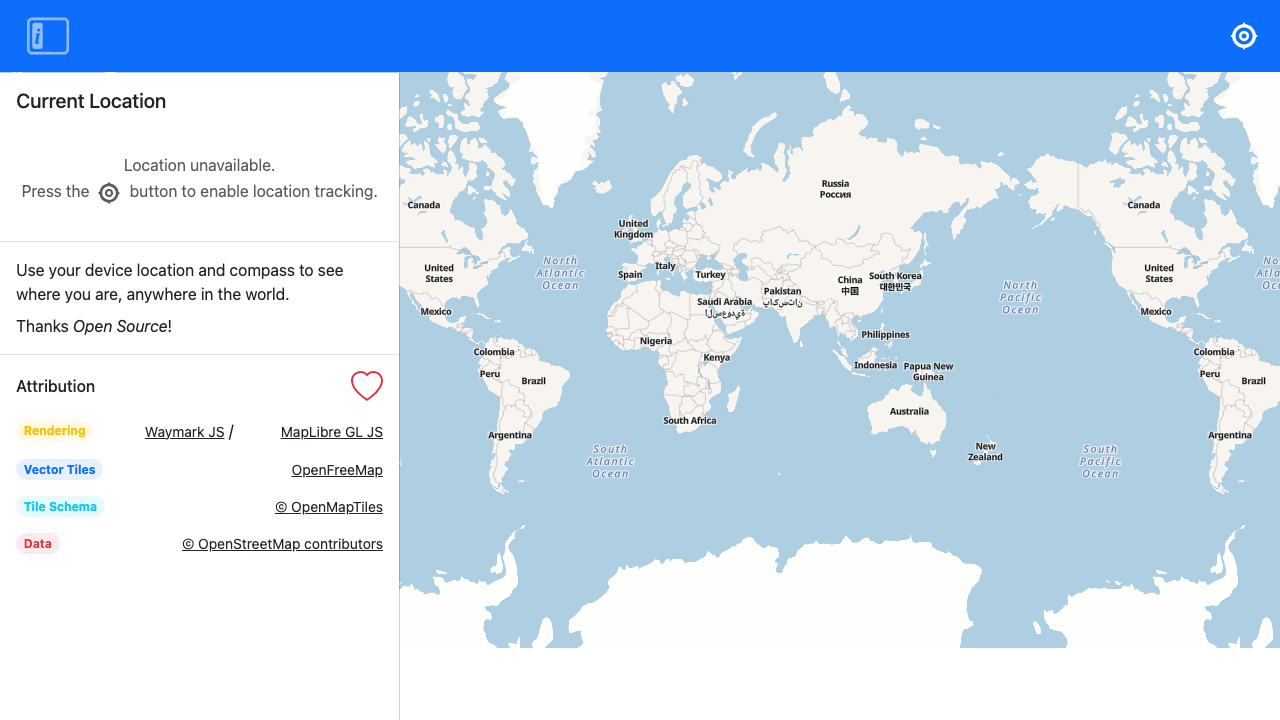
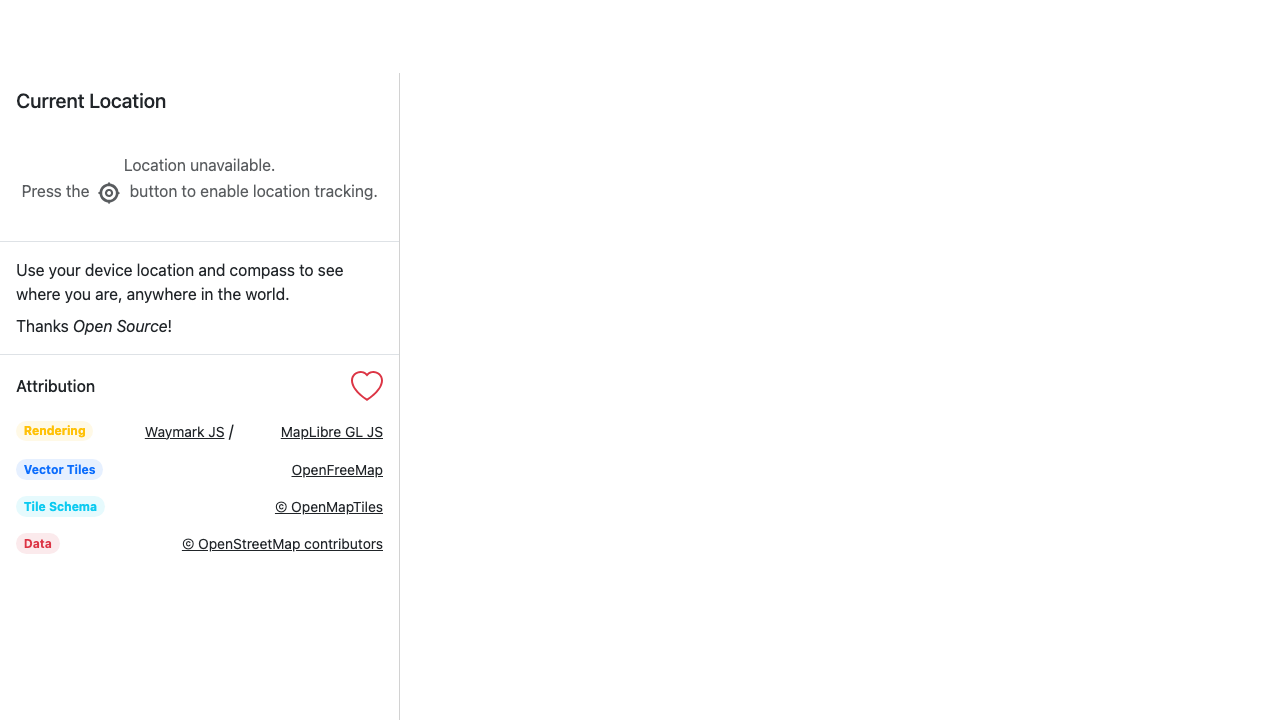
3

diff --git a/tests/e2e/first-load.spec.js b/tests/e2e/first-load.spec.js
@@ -1,0 +1,92 @@
+import { test, expect } from "@playwright/test";
+
+const TRANSITION_TIMEOUT = 1000;
+
+/**
+ * Helpers to control navigator_waymark localStorage state before page load.
+ * addInitScript runs before any page scripts, so it reliably seeds / clears storage.
+ */
+const withNoWaymarkStorage = (page) =>
+  page.addInitScript(() => localStorage.removeItem("navigator_waymark"));
+
+const withWaymarkStorage = (page) =>
+  page.addInitScript(() =>
+    localStorage.setItem(
+      "navigator_waymark",
+      JSON.stringify({ mapView: { center: { lat: 51.5, lng: -0.1 }, zoom: 10 } }),
+    ),
+  );
+
+test.describe("First Load Detection", () => {
+  test("isFirstLoad is true on first visit — #content has first-load class", async ({
+    page,
+  }) => {
+    await withNoWaymarkStorage(page);
+    await page.goto("/");
+    await page.waitForLoadState("networkidle");
+
+    await expect(page.locator("#content")).toHaveClass(/first-load/);
+  });
+
+  test("isFirstLoad is false on returning visit — #content has no first-load class", async ({
+    page,
+  }) => {
+    await withWaymarkStorage(page);
+    await page.goto("/");
+    await page.waitForLoadState("networkidle");
+
+    await expect(page.locator("#content")).not.toHaveClass(/first-load/);
+  });
+
+  test("first-load class is absent on reload once navigator_waymark is persisted", async ({
+    page,
+  }) => {
+    // Fresh browser context already has empty localStorage — no init script needed.
+    await page.goto("/");
+    await page.waitForLoadState("networkidle");
+
+    // Confirm we start in first-load state
+    await expect(page.locator("#content")).toHaveClass(/first-load/);
+
+    // Simulate navigator_waymark being written (as useWaymark does on moveend)
+    await page.evaluate(() => {
+      localStorage.setItem(
+        "navigator_waymark",
+        JSON.stringify({ mapView: { center: { lat: 51.5, lng: -0.1 }, zoom: 10 } }),
+      );
+    });
+
+    // On the next page load, navigator_waymark exists — isFirstLoad must be false
+    await page.reload();
+    await page.waitForLoadState("networkidle");
+    await expect(page.locator("#content")).not.toHaveClass(/first-load/);
+  });
+});
+
+test.describe("Panel Visibility on Initial Load", () => {
+  test("panel is visible on desktop initial load", async ({ page }) => {
+    await withNoWaymarkStorage(page);
+    await page.goto("/");
+    await page.waitForLoadState("networkidle");
+
+    const panel = page.locator("#side-panel");
+    await expect(panel).toBeVisible({ timeout: 5000 });
+
+    // Bootstrap offcanvas slide-in should complete
+    await expect(panel).toHaveCSS("transform", "none", {
+      timeout: TRANSITION_TIMEOUT,
+    });
+  });
+
+  test("panel is visible on desktop returning load", async ({ page }) => {
+    await withWaymarkStorage(page);
+    await page.goto("/");
+    await page.waitForLoadState("networkidle");
+
+    const panel = page.locator("#side-panel");
+    await expect(panel).toBeVisible({ timeout: 5000 });
+    await expect(panel).toHaveCSS("transform", "none", {
+      timeout: TRANSITION_TIMEOUT,
+    });
+  });
+});

diff --git a/src/core/useUI.js b/src/core/useUI.js
@@ -5,6 +5,9 @@ import { ref, computed, markRaw } from "vue";
 // Device / Screen Size
 const width = ref(window.innerWidth);
 
+// First Load — true when navigator_waymark has never been persisted
+const isFirstLoad = ref(!localStorage.getItem("navigator_waymark"));
+
 // Nav (Left Sidebar)
 const isNavVisible = ref(width.value >= 992); // Toggles entire sidebar visibility
 const isNavExpanded = ref(false); // Toggles expanded/collapsed mode (desktop hover or mobile open)
@@ -132,6 +135,10 @@ export const useUI = () => {
         isPanelExpanded.value = value;
     };
 
+    const setFirstLoadComplete = () => {
+        isFirstLoad.value = false;
+    };
+
     return {
         // State
         width,
@@ -141,6 +148,7 @@ export const useUI = () => {
         isPanelExpanded,
         activePanelId,
         activePanelComponent,
+        isFirstLoad,
 
         // Computed
         isDesktop,
@@ -156,5 +164,6 @@ export const useUI = () => {
         closePanel,
         togglePanelExpanded,
         setPanelExpanded,
+        setFirstLoadComplete,
     };
 };

diff --git a/src/App.vue b/src/App.vue
@@ -31,6 +31,7 @@ const {
 	isPanelExpanded,
 	isDesktop,
 	isMobile,
+	isFirstLoad,
 } = useUI();
 
 const handleMapClick = () => {
@@ -75,7 +76,7 @@ onMounted(() => {
 		<Top />
 	</div>
 
-	<div id="content" class="page-content">
+	<div id="content" class="page-content" :class="{ 'first-load': isFirstLoad }">
 		<!-- <Nav id="side-nav" /> -->
 
 		<SidePanel />
